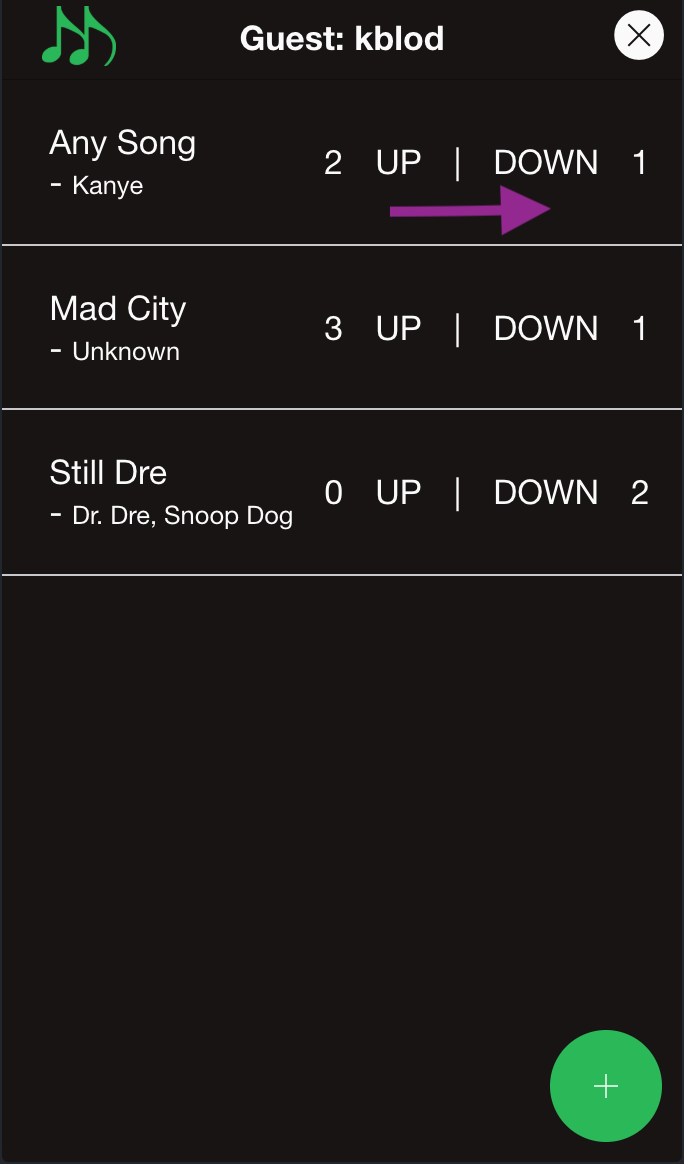
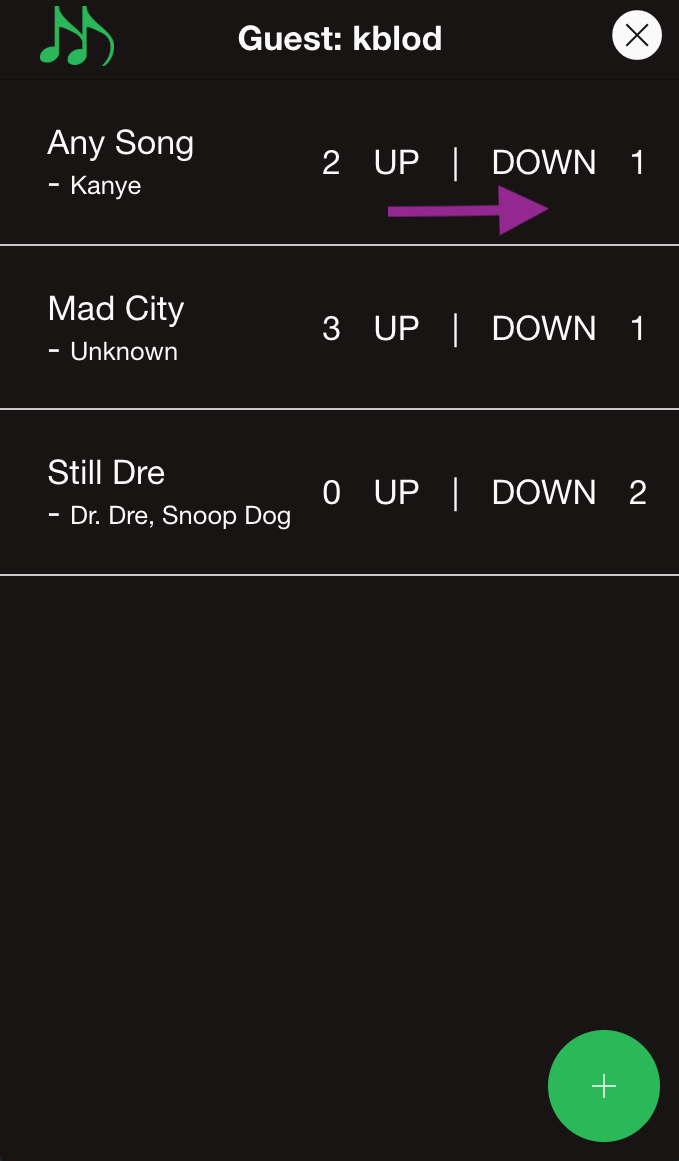
Fixing up the about page

diff --git a/src/pages/howto/howto.html b/src/pages/howto/howto.html
@@ -25,100 +25,180 @@
         <ion-title>Welcome to Music Maven!</ion-title>
       </ion-row>
       <ion-row text-justify>
-        Hello! Welcome to Music Maven! This app is intended to help you hear the songs you want at a party or event. The host of the party will start a room, and guests at the party get to vote on which songs they like or don’t, and suggest songs that they want to hear! The host can then use their preferred music program to update the playlist of the party in real time. Giving the power back to the guests!
+        <p>
+          Hello! Welcome to Music Maven! This app is intended to help
+          you hear the songs you want at a party or event. The host of
+          the party will start a room, and guests at the party get to
+          vote on which songs they like or don’t, and suggest songs that
+          they want to hear! The host can then use their preferred music
+          program to update the playlist of the party in real time. Giving
+          the power back to the guests!
+        </p>
       </ion-row>
-      <ion-row>
-        SWIPE TO VOTE AS A GUEST! SWIPE TO DELETE AS THE HOST!
+      <ion-row justify-content-center text-center>
+        <p>
+          <span class="bigger">
+            SWIPE TO VOTE AS A GUEST!<br>
+            SWIPE TO DELETE AS A HOST!
+          </span>
+        </p>
       </ion-row>
       <ion-row text-center>
-        <ion-title>HOST-GUEST</ion-title>
+        <ion-title>START</ion-title>
       </ion-row>
-      <ion-row>
-        When you opened the app, you saw this screen. Here, you should choose whether you are the host of the party or a guest. If you are the host, you will be the one looking at song requests and votes and implementing them in your playlist! If you are the guest, you are at a party where someone has already started hosting, and has a room code for you to sign in with and start voting.
+      <ion-row text-justify>
+        <p>
+          When you opened the app, you saw this screen. Here, you should
+          choose whether you are the host of the party or a guest. If you
+          are the host, you will be the one looking at song requests and
+          votes and implementing them in your playlist! If you are the
+          guest, you are at a party where someone has already started
+          hosting, and has a room code for you to sign in with and start voting.
+        </p>
       </ion-row>
       <ion-row justify-content-center>
-        <ion-img width="200" height="350" src="../../assets/imgs/howToScreenShots/hostGuest.png"></ion-img>
+        <img margin-bottom="20px" class="howto" src="../../assets/imgs/howToScreenShots/hostGuest.png">
       </ion-row>
       <ion-row text-center>
         <ion-title>ROOM CODE</ion-title>
       </ion-row>
-      <ion-row>
-        If you are the host, when you click that button, your room code will appear as shown. It will be on the top of the pages for you to see at any time and tell your guests.
+      <ion-row text-justify>
+        <p>
+          If you are the host, when you click that button, your room code
+          will appear as shown. It will be on the top of the pages for you
+          to see at any time and tell your guests.
+        </p>
       </ion-row>
       <ion-row justify-content-center>
-        <ion-img width="200" height="350" src="../../assets/imgs/howToScreenShots/hostRoomCreation.png"></ion-img>
+        <img class="howto" src="../../assets/imgs/howToScreenShots/hostRoomCreation.png">
       </ion-row>
-      <ion-row>
-        If you are a guest, after you click guest, you will see a place for you to enter the room code. Get the room code from your host and enter it in the box!
+      <ion-row text-justify>
+        <p>
+          If you are a guest, after you click guest, you will see a place
+          for you to enter the room code. Get the room code from your host
+          and enter it in the box!
+        </p>
       </ion-row>
       <ion-row justify-content-center>
-        <ion-img width="200" height="350" src="../../assets/imgs/howToScreenShots/guestEnterRoom.png"></ion-img>
+        <img margin-bottom="20px" class="howto" src="../../assets/imgs/howToScreenShots/guestEnterRoom.png">
       </ion-row>
       <ion-row text-center>
         <ion-title>HOST</ion-title>
       </ion-row>
       <ion-row>
-        If you’re the host, congratulations! We hope your party is lit!
+        <p>
+          If you’re the host, congratulations! We hope your party is lit!
+        </p>
       </ion-row>
-      <ion-row>
-        As the host, you will see a blank song list page. You can add songs that you plan to play, or songs that you want to get guest input on. Guests can also add song suggestions, and you will see them show up here.
-      </ion-row>
-      <ion-row justify-content-center>
-        <ion-img width="200" height="350" src="../../assets/imgs/howToScreenShots/hostSongList.png"></ion-img>
-      </ion-row>
-      <ion-row>
-        As the host, you won’t be voting, but you can delete songs from the list. Swipe in either direction on the song to delete that song. If you see a duplicate or a song that has many down votes, you might decide you won’t play this one and delete it. With great power comes great responsibility. If you take your guest input into consideration, you should have a very successful playlist!
-      </ion-row>
-      <ion-row>
-        As the host, you also have the ability to end the party. If you press the X in the top right corner, this will give you this pop up option to end the party, which will kick all the guests out, and delete your saved song list. Make sure that you are certain when you want to end the party!
+      <ion-row text-justify>
+        <p>
+          As the host, you will see a blank song list page. You can add songs
+          that you plan to play, or songs that you want to get guest input on.
+          Guests can also add song suggestions, and you will see them show up here.
+        </p>
       </ion-row>
       <ion-row justify-content-center>
-        <ion-img width="200" height="350" src="../../assets/imgs/howToScreenShots/hostEndParty.png"></ion-img>
+        <img class="howto" src="../../assets/imgs/howToScreenShots/hostSongList.png">
+      </ion-row>
+      <ion-row text-justify>
+        <p>
+          As the host, you won’t be voting, but you can delete songs from the list.
+          Swipe in either direction on the song to delete that song. If you see a
+          duplicate or a song that has many down votes, you might decide you won’t
+          play this one and delete it. With great power comes great responsibility.
+          If you take your guests' input into consideration, you should have a
+          successful playlist!
+        </p>
+      </ion-row>
+      <ion-row text-justify>
+        <p>
+          As the host, you also have the ability to end the party. If you press the
+          X in the top right corner, this will give you this pop up option to end the
+          party, which will kick all the guests out, and delete your saved song list.
+          Make sure that you are certain when you want to end the party!
+        </p>
+      </ion-row>
+      <ion-row justify-content-center>
+        <img margin-bottom="20px" class="howto" src="../../assets/imgs/howToScreenShots/hostEndParty.png">
       </ion-row>
       <ion-row text-center>
         <ion-title>GUEST</ion-title>
       </ion-row>
-      <ion-row>
-      As a guest at this party, after signing in, you will see a song list page. This page may have songs in it already, or it may not. The host can add songs they want to play, and the guests can add song suggestions!
+      <ion-row text-justify>
+        <p>
+          As a guest at this party, after signing in, you will see a song list page.
+          This page may have songs in it already, or it may not. The host can add songs
+          they want to play, and the guests can add song suggestions!
+        </p>
       </ion-row>
       <ion-row justify-content-center>
-        <ion-img width="200" height="350" src="../../assets/imgs/howToScreenShots/guestSongList.png"></ion-img>
+        <img class="howto" src="../../assets/imgs/howToScreenShots/guestSongList.png">
       </ion-row>
-      <ion-row>
-         As a guest, you also have the ability to vote on the songs on the list. You will see your votes, along with those of other guests, show up here. To vote, swipe toward the vote display that you want to do.
+      <ion-row text-justify>
+        <p>
+          As a guest, you also have the ability to vote on the songs on the list. You will
+          see your votes, along with those of other guests, show up here. To vote, swipe
+          toward the vote display that you want to do.
+        </p>
       </ion-row>
-      <ion-row>
-        SWIPE LEFT ON A SONG FOR AN UP VOTE
-      </ion-row>
-      <ion-row justify-content-center>
-        <ion-img width="200" height="350" src="../../assets/imgs/howToScreenShots/upVote.png"></ion-img>
-      </ion-row>
-      <ion-row>
-        SWIPE RIGHT ON A SONG FOR A DOWN VOTE
-      </ion-row>
-      <ion-row justify-content-center>
-        <ion-img width="200" height="350" src="../../assets/imgs/howToScreenShots/downVote.png"></ion-img>
-      </ion-row>
-      <ion-row>
-        If you decide that you want to leave the party, or stop being a guest in that room, click the X in the top right corner.
+      <ion-row text-center justify-content-center>
+        <p>
+          <span class="bigger">
+            SWIPE LEFT TO UP VOTE
+          </span>
+        </p>
       </ion-row>
       <ion-row justify-content-center>
-        <ion-img width="200" height="350" src="../../assets/imgs/howToScreenShots/guestExitRoom.png"></ion-img>
+        <img margin-bottom="20px" class="howto" src="../../assets/imgs/howToScreenShots/upVote.png">
+      </ion-row>
+      <ion-row text-center justify-content-center>
+        <p>
+          <span class="bigger">
+            SWIPE RIGHT TO DOWN VOTE
+          </span>
+        </p>
+      </ion-row>
+      <ion-row justify-content-center>
+        <img class="howto" src="../../assets/imgs/howToScreenShots/downVote.png">
+      </ion-row>
+      <ion-row text-justify>
+        <p>
+          If you decide that you want to leave the party, or stop being a guest in
+          that room, click the X in the top right corner.
+        </p>
+      </ion-row>
+      <ion-row justify-content-center>
+        <img margin-bottom="20px" class="howto" src="../../assets/imgs/howToScreenShots/guestExitRoom.png">
       </ion-row>
       <ion-row text-center>
         <ion-title>ADD SONG</ion-title>
       </ion-row>
-      <ion-row>
-        To add a song as a host or guest, click the green + button in the bottom right corner. This will bring up this Add Song page. This page allows you to type in the name of a song and the artist that you want to add to the song list!
+      <ion-row text-justify>
+        <p>
+          To add a song as a host or guest, click the green + button in the bottom right
+          corner. This will bring up this Add Song page. This page allows you to type
+          in the name of a song and the artist that you want to add to the song list!
+        </p>
       </ion-row>
       <ion-row justify-content-center>
-        <ion-img width="200" height="350" src="../../assets/imgs/howToScreenShots/addSong.png"></ion-img>
+        <img class="howto" src="../../assets/imgs/howToScreenShots/addSong.png">
       </ion-row>
-      <ion-row>
-        If you don’t know the artist, don’t worry about it! The song will still show up with an unknown artist, so the host can find it by the song name. Similarly, if you want to hear a particular artist, but you don’t care or know what song, you can just type in the artist, and hear any song by them! If you enter a random string of characters, or one that is ridiculously long, this will be considered invalid input, so put some real song names in there! This will be the best way to get your song suggestions seen, voted on, and played!
+      <ion-row text-justify>
+        <p>
+          If you don’t know the artist, don’t worry about it! The song will still show
+          up with an unknown artist, so the host can find it by the song name. Similarly,
+          if you want to hear a particular artist, but you don’t care or know what song,
+          you can just type in the artist, and hear any song by them! If you enter a random
+          string of characters, or one that is ridiculously long, this will be considered
+          invalid input, so put some real song names in there! This will be the best way to
+          get your song suggestions seen, voted on, and played!
+        </p>
       </ion-row>
-      <ion-row>
-        Thanks for reading, and enjoy Music Maven! Your musical wisdom will be shared with those at the party, and we hope it will be a lot of fun!!
+      <ion-row text-justify>
+        <p>
+          Thanks for reading, and enjoy Music Maven! Your musical wisdom will be shared
+          with those at the party, and we hope it will be a lot of fun!!
+        </p>
       </ion-row>
       <div style="clear:both; height:100px"></div>
     </ion-col>

diff --git a/src/components/song-item/song-item.html b/src/components/song-item/song-item.html
@@ -1,7 +1,7 @@
 <ion-item (swipeleft)="toggleVoteAnim(true)" (swiperight)="toggleVoteAnim(false)" [@myvote]="voteState">
 
-  <div>&nbsp;&nbsp;&nbsp;&nbsp; {{song.title}}<br/>
-    &nbsp;&nbsp;&nbsp;&nbsp;&nbsp;- <small>{{song.artist}}</small></div>
+  <div>&nbsp;&nbsp;&nbsp;&nbsp; {{song.title}}<br>
+    &nbsp;&nbsp;&nbsp;&nbsp;&nbsp;- <span class="smaller">{{song.artist}}</span></div>
   <div item-right>{{song.upVotes}}</div>
   <!--<button clear item-right ion-button icon-only (click)="vote(song, true)" class="votebutton"><ion-icon name="arrow-dropup-circle"></ion-icon></button>-->
   <!--<button clear item-right ion-button icon-only (click)="vote(song, false)" class="votebutton"><ion-icon name="arrow-dropdown-circle"></ion-icon></button>-->

diff --git a/src/pages/host-song-list/host-song-list.ts b/src/pages/host-song-list/host-song-list.ts
@@ -102,10 +102,8 @@ export class HostSongListPage {
    * @param song
    */
   async deleteSong(song) {
-    // console.log("hostSongListPage deleteSong(song): "+song.fbKey); // DEBUG
     await this.delay(300);
     this.fBProvider.deleteSong(song, this.roomId);
-    // setTimeout(this.deleteSong(song), '1s');
   }
 
   /**

diff --git a/src/app/app.scss b/src/app/app.scss
@@ -113,3 +113,12 @@ ion-app.wp [padding] .scroll-content {
   padding-top: 10px;
   padding-bottom: 10px;
 }
+
+.bigger {
+  text-align: center;
+  font-size: larger;
+}
+
+.smaller {
+  font-size: smaller;
+}

diff --git a/src/pages/howto/howto.scss b/src/pages/howto/howto.scss
@@ -1,3 +1,8 @@
 page-howto {
-
+  .howto {
+    border: 1px solid #000000;
+    display: block;
+    height:350px;
+    width:200px;
+  }
 }
